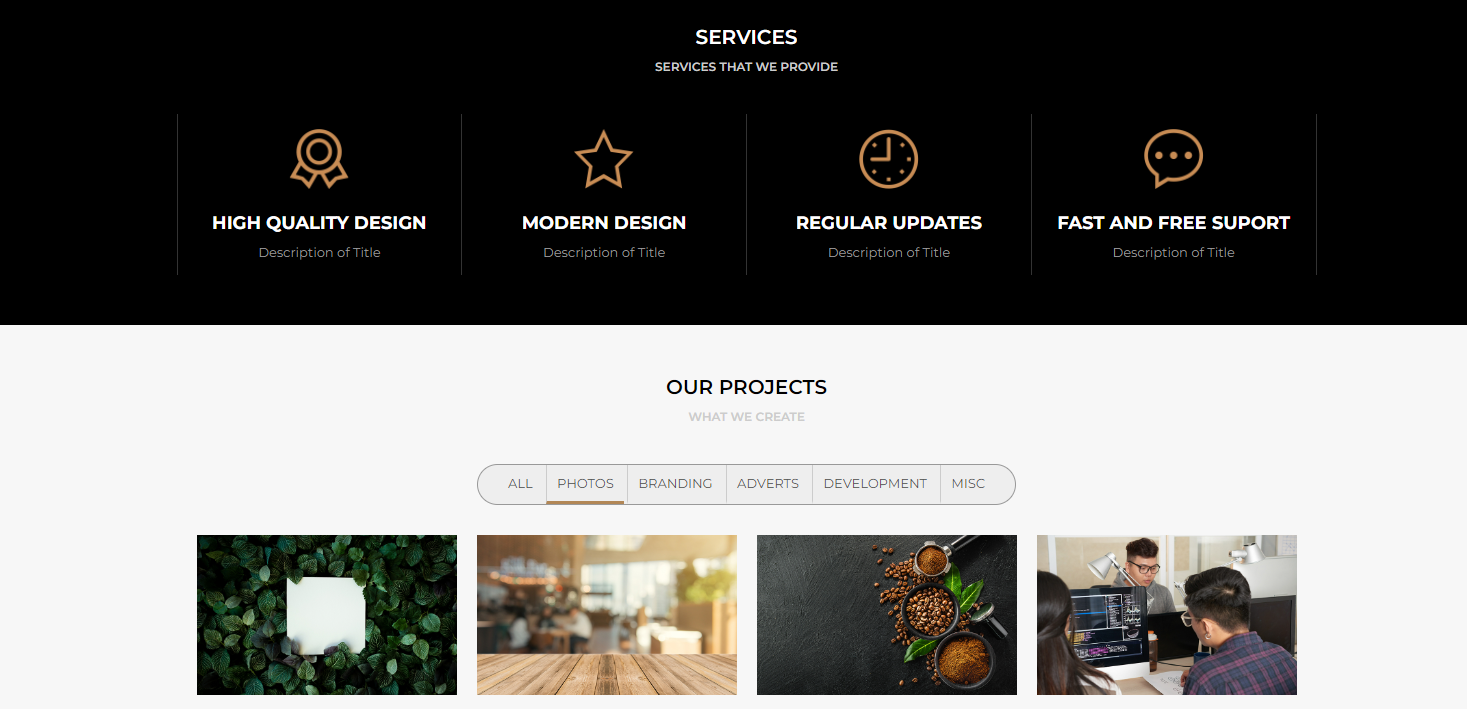
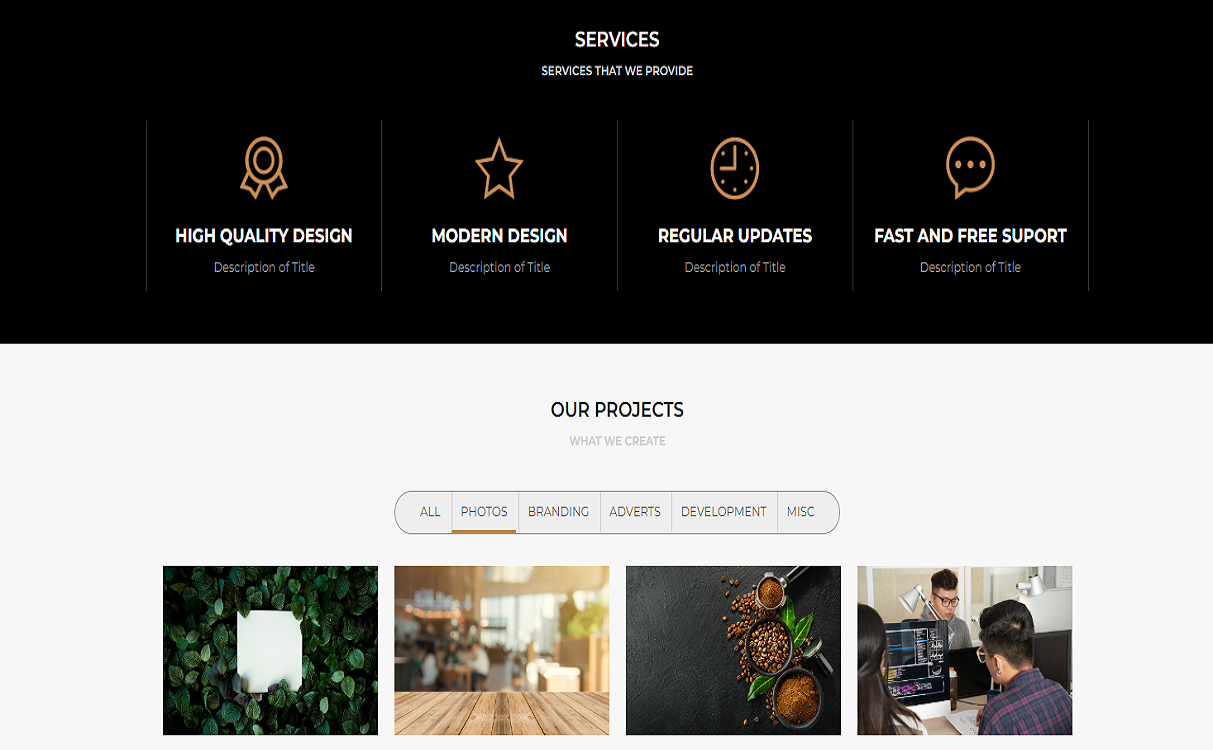
ajustes finais da pagina dos projects

diff --git a/src/components/Projects.sass b/src/components/Projects.sass
@@ -1,7 +1,11 @@
+// Define a variable for the base margin
+$base-margin: 1rem // Adjust this value as needed
+
+// ProjectsPage styles
 .ProjectsPage
-  background-color:#0e0c0c
+  background-color: #0e0c0c
   display: flex
-  width:  100%
+  width: 100%
   min-height: 100vh
   justify-content: center
   align-items: center
@@ -9,51 +13,62 @@
   overflow: hidden
   flex-direction: column
 
+// TextAreaProjects styles
 .TextAreaProjects
   display: flex
   flex-direction: column
-  align-items: flex-start
+  align-items: center
   justify-content: center
+  position: relative
+  margin-bottom: 10rem
+  margin-top: 12rem
 
-  
+  // h1 styles
   h1
     font-size: 30px
     text-align: center
-    margin-left: 1px 
+    margin-left: 1px
     text-transform: uppercase
     color: #e1e1e1
     font-weight: 300
+
+  // BarArea styles
   .BarArea
     background: #e02946
     width: 160px
     height: 3px
 
+// ProjectsArea styles
 .ProjectsArea
-  display: flex
+  display: grid
   grid-template-columns: repeat(3, 1fr)
-  grid-gap: 20px
-  width: 500px
-  margin-left: 23rem
-  align-items: center
-
-
-.ProjectsBox
-  display: flex
-  flex-direction: column
-  padding: 20px
+  grid-gap: 50px
+  max-width: 1200px 
+  width: 100% 
+  margin: 0 auto 
   align-items: center
   justify-content: center
 
+// ProjectsBox styles
+.ProjectsBox
+  display: flex
+  flex-direction: column
+  gap: 10px
+  align-items: center
+  justify-content: center
+
+// TechImage styles
 .TechImage
-   border: 3px solid #e02946
-   border-radius: 8px
+  border: 3px solid #e02946
+  border-radius: 8px
+  width: 100%
+  height: 100%
 
-
+// ProjectText styles
 .ProjectText
-
   h3
     font-size: 25px
-    color:#e1e1e1
+    color: #e1e1e1
     font-weight: 400
     text-align: left
   p
@@ -61,14 +76,14 @@
     color: #a1a1a1
     font-weight: 300
     text-align: left
-    
 
+// TechUsage styles
 .TechUsage
   display: flex
   align-items: center
   margin-top: 8px
 
-
+  // p styles
   p
     text-align: left
     color: #e1e1e1
@@ -76,48 +91,63 @@
     font-size: 18px
     margin-right: 10px
     margin-top: 0.5rem
+
+  // TechIcon styles
   .TechIcon
     display: flex
     margin-top: 8px
-    align-items: center
- 
-  
+
+    // Icon styles
+    .icon
+      margin-right: $base-margin
+
+    // Remove margin from the last icon
+    .icon:last-child
+      margin-right: 0
+
+// Buttons styles
 .Buttons
   display: flex
   align-items: center
-  margin-top: 20px  
+  margin-top: 20px
 
+// ButtonsArea styles
 .ButtonsArea
-  display: inline-flex 
+  display: inline-flex
   margin-top: 20px
   margin-left: 0.1rem
 
-
+// ButtonArea styles
 .ButtonArea
-    position: relative
-    align-items: center
-    width:125px
-    height: 50px
-    border: 2px solid #e02942
-    border-radius: 8px
-    margin: 20px 
-    &:hover
-      background-color:#e02942
-      transition: .5s
-      border: none
-    a
-      display: flex
-      align-items: center
-      justify-content: center
-      width:120px
-      height:50px
-      text-decoration: none
-      color: #FFF
-      font-size: 32px 
-      border-radius: 8px
-      transition: color 0.5s
-    p
-      font-size: 14px
-      margin-right: 10px
-      z-index:10
+  position: relative
+  align-items: center
+  width: 125px
+  height: 50px
+  border: 2px solid #e02942
+  border-radius: 8px
+  margin: 20px
 
+  // Button hover styles
+  &:hover
+    background-color: #e02942
+    transition: 0.5s
+    border: none
+
+  // Link styles
+  a
+    display: flex
+    align-items: center
+    justify-content: center
+    width: 120px
+    height: 50px
+    text-decoration: none
+    color: #fff
+    font-size: 32px
+    border-radius: 8px
+    transition: color 0.5s
+
+  // Paragraph styles
+  p
+    font-size: 14px
+    margin-right: 10px
+    z-index: 10

diff --git a/src/components/Projects.tsx b/src/components/Projects.tsx
@@ -65,7 +65,7 @@ const ProjectsPage: React.FC = () => {
                     </div>
                     <div className='ButtonArea Buttons'>
                       <a href='https://github.com/Ianvi1' target='_blank' rel='noreferrer'>
-                        <FaEye className='EyeIcon' />
+                        <FaEye size={28} className='EyeIcon' />
                         <p>Visualizar</p>
                       </a>
                     </div>
